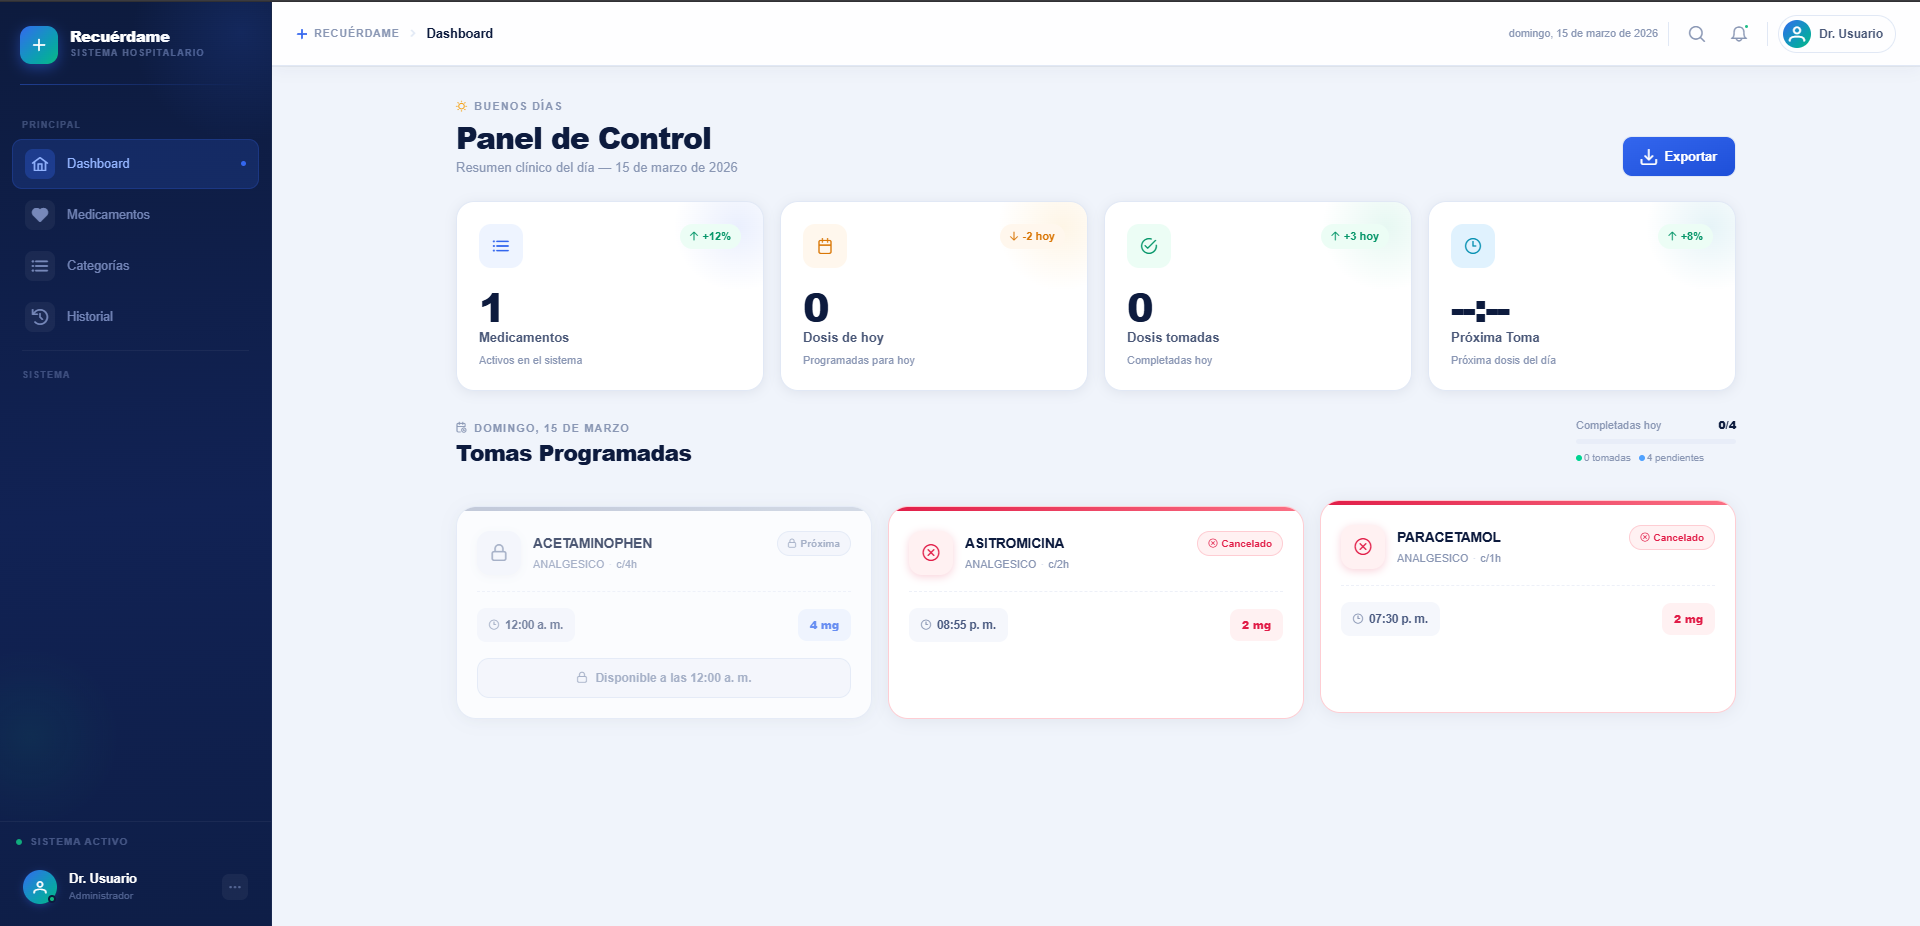
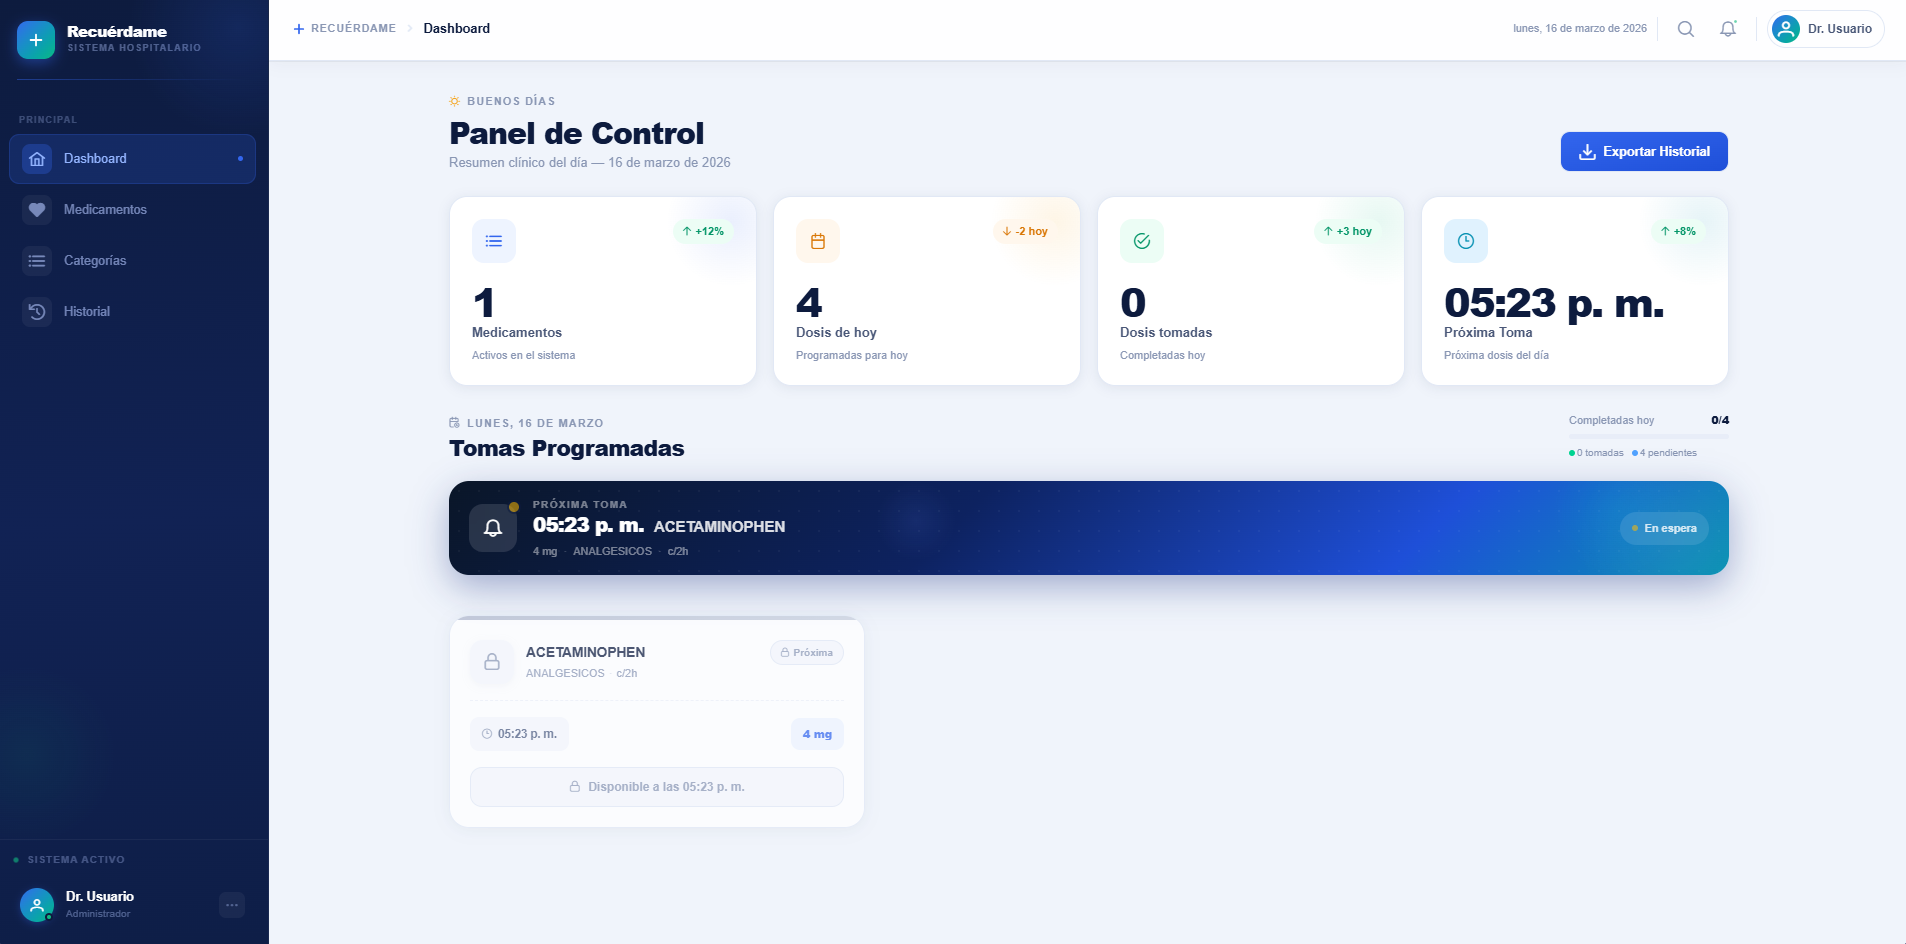
docs: Update dashboard image reference in README and add the new dashboard image.

diff --git a/README.md b/README.md
@@ -22,7 +22,7 @@
 
 ### Panel de Control
 
-![Panel de Control](docs/dashboard2.png)
+![Panel de Control](docs/dashboard.png)
 
 ### Medicamentos
 
